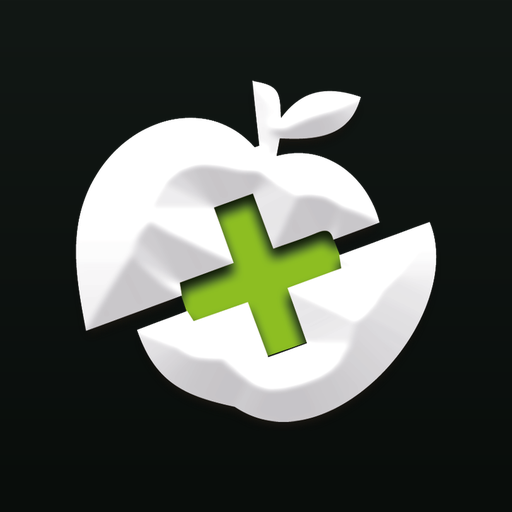
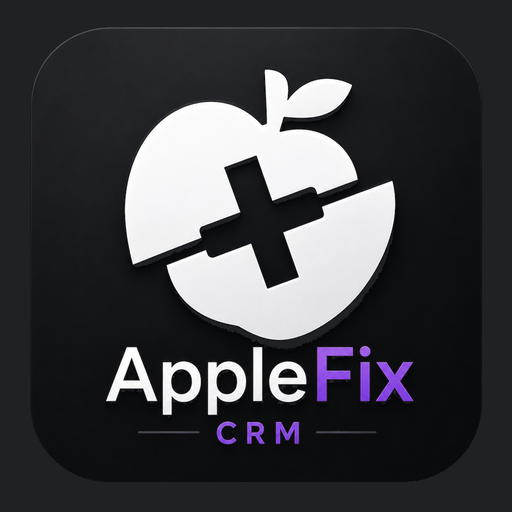
Webové ikony sjednoceny s ikonou mobilní appky (v3.42.33)
favicon-32 = výřez jablka (čitelnost), plná ikona pro touch/PWA velikosti,
maskable se safe-zónou, cache-bust ?v=2 v header.php i login.php.

diff --git a/includes/header.php b/includes/header.php
@@ -177,9 +177,9 @@ try {
              s dynamic island / home indicatorem (spodní lišta, sheet) */ ?>
     <meta name="viewport" content="width=device-width, initial-scale=1.0, viewport-fit=cover">
     <title><?php echo e(get_setting('company_name', 'Repair CRM')); ?> - <?php echo e(__('dashboard')); ?></title>
-    <link rel="icon" type="image/png" sizes="32x32" href="/assets/img/favicon-32.png">
-    <link rel="icon" type="image/png" href="/assets/img/favicon.png">
-    <link rel="apple-touch-icon" href="/assets/img/apple-touch-icon.png">
+    <link rel="icon" type="image/png" sizes="32x32" href="/assets/img/favicon-32.png?v=2">
+    <link rel="icon" type="image/png" href="/assets/img/favicon.png?v=2">
+    <link rel="apple-touch-icon" href="/assets/img/apple-touch-icon.png?v=2">
     <link rel="manifest" href="/manifest.webmanifest">
     <meta name="theme-color" content="#0d1512">
     <meta name="apple-mobile-web-app-capable" content="yes">

diff --git a/login.php b/login.php
@@ -287,9 +287,9 @@ if (!empty($_POST['ajax'])) {
     <meta charset="UTF-8">
     <meta name="viewport" content="width=device-width, initial-scale=1.0">
     <title><?php echo e(__('login_title')); ?> - Repair CRM</title>
-    <link rel="icon" type="image/png" sizes="32x32" href="/assets/img/favicon-32.png">
-    <link rel="icon" type="image/png" href="/assets/img/favicon.png">
-    <link rel="apple-touch-icon" href="/assets/img/apple-touch-icon.png">
+    <link rel="icon" type="image/png" sizes="32x32" href="/assets/img/favicon-32.png?v=2">
+    <link rel="icon" type="image/png" href="/assets/img/favicon.png?v=2">
+    <link rel="apple-touch-icon" href="/assets/img/apple-touch-icon.png?v=2">
     <link rel="manifest" href="/manifest.webmanifest">
     <meta name="theme-color" content="#0d1512">
     <meta name="apple-mobile-web-app-capable" content="yes">

diff --git a/includes/changelog.php b/includes/changelog.php
@@ -11,6 +11,15 @@
 return (static function (): array {
 $entries = [
     [
+        'version' => '3.42.33',
+        'date' => '2026-08-09',
+        'time' => date('H:i'),
+        'title' => 'Nová ikonka AppleFix CRM i na webu',
+        'items' => [
+            'Web měl starou ikonku (zelený kříž) — teď všude používá stejnou jako mobilní aplikace: favicon v záložce prohlížeče, ikonka po přidání na plochu iPhonu/iPadu i ikony PWA. Malý favicon je výřez jablka, aby byl na 32 px čitelný.',
+        ],
+    ],
+    [
         'version' => '3.42.32',
         'date' => '2026-08-09',
         'time' => '10:05',
